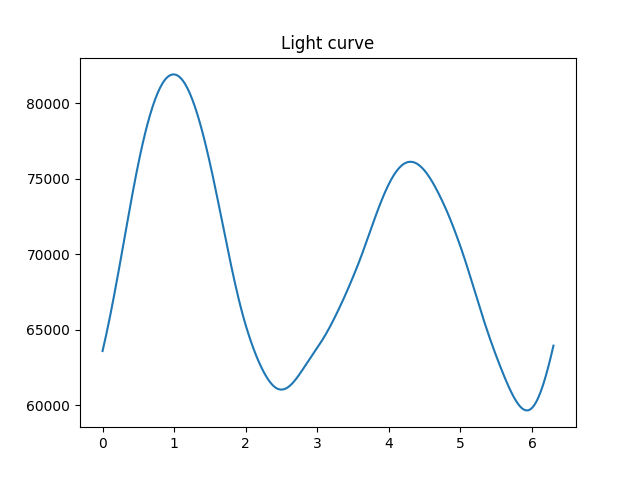
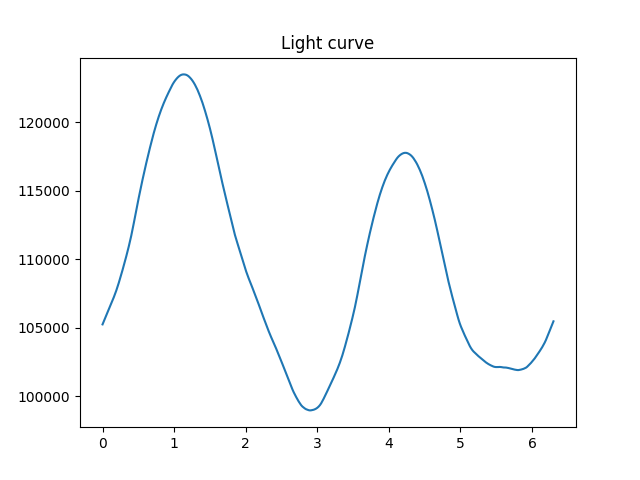
Some fixes

diff --git a/Millennium_Falcon_Space_Apps_team/SimulateRotation.cpp b/Millennium_Falcon_Space_Apps_team/SimulateRotation.cpp
@@ -2,37 +2,31 @@
 #include "MathCore.h"
 #include "SimulateRotation.h"
 
-inline void RotatePointOX(Point3D& point, double deg, const Point3D center)
+inline void RotatePointOX(Point3D& point, double deg)
 {
-	point = point - center;
 	double y = point.y * cos(deg) - point.z * sin(deg);
 	double z = point.y * sin(deg) + point.z * cos(deg);
 	point.y = y;
 	point.z = z;
-	point = point + center;
 }
 
-inline void RotatePointOY(Point3D& point, double deg, const Point3D center)
+inline void RotatePointOY(Point3D& point, double deg)
 {
-	point = point - center;
 	double x = point.x * cos(deg) + point.z * sin(deg);
 	double z = -point.x * sin(deg) + point.z * cos(deg);
 	point.x = x;
 	point.z = z;
-	point = point + center;
 }
 
-inline void RotatePointOZ(Point3D& point, double deg, const Point3D center)
+inline void RotatePointOZ(Point3D& point, double deg)
 {
-	point = point - center;
 	double x = point.x * cos(deg) - point.y * sin(deg);
 	double y = point.x * sin(deg) + point.y * cos(deg);
 	point.x = x;
 	point.y = y;
-	point = point + center;
 }
 
-void RotateMesh(Mesh& mesh, double deg, const Point3D& center, const Point3D& axisAng)
+void RotateMesh(Mesh& mesh, double deg, const Point3D& axisAng)
 {
 
 	for (auto& vert : mesh.getVertices())
@@ -42,18 +36,18 @@ void RotateMesh(Mesh& mesh, double deg, const Point3D& center, const Point3D& ax
 			angXY = 2 * PI - angXY;
 		if (std::isnan(angXY))
 			angXY = 0;
-		RotatePointOZ(vert, angXY, center);
+		RotatePointOZ(vert, angXY);
 		double angXZ = getAngle(Point2D{ 0, 1 }, { axisAng.x, axisAng.z });
 		if (cross_mult(Point2D{ axisAng.x, axisAng.z }, { 0, 1 }) < 0)
 			angXZ = 2 * PI - angXZ;
 		if (std::isnan(angXZ))
 			angXZ = 0;
-		RotatePointOY(vert, angXZ, center);
+		RotatePointOY(vert, angXZ);
 
-		RotatePointOZ(vert, deg, center);
+		RotatePointOZ(vert, deg);
 
-		RotatePointOY(vert, -angXZ, center);
-		RotatePointOZ(vert, -angXY, center);
+		RotatePointOY(vert, -angXZ);
+		RotatePointOZ(vert, -angXY);
 	}
 }
 
@@ -66,14 +60,13 @@ double MeshLight(Mesh& mesh, double k, const Point3D& lightNormal) {
 	return res_light;
 }
 
-std::map<double, double> SimulateRotation(Mesh i_mesh, double i_accuracy_deg, double k, const Point3D& lightNormal, 
-	const Point3D& center, const Point3D& axisAng)
+std::map<double, double> SimulateRotation(Mesh i_mesh, double i_accuracy_deg, double k, const Point3D& lightNormal, const Point3D& axisAng)
 {
 	std::map<double, double> map;
 	for (double deg = 0; deg < 2 * PI + i_accuracy_deg; deg += i_accuracy_deg)
 	{
 		map[deg] = MeshLight(i_mesh, k, lightNormal);
-		RotateMesh(i_mesh, i_accuracy_deg, center, axisAng);
+		RotateMesh(i_mesh, i_accuracy_deg, axisAng);
 	}
 	return map;
 }

diff --git a/Millennium_Falcon_Space_Apps_team/SimulateRotation.h b/Millennium_Falcon_Space_Apps_team/SimulateRotation.h
@@ -2,5 +2,5 @@
 #include <map>
 #include "MathCore.h"
 
-std::map<double, double> SimulateRotation(Mesh i_mesh, double i_accuracy_deg, double k, const Point3D& lightNormal,
-	const Point3D& center, const Point3D& axisAng);
+std::map<double, double> SimulateRotation(Mesh i_mesh, double i_accuracy_deg, double k, 
+	const Point3D& lightNormal, const Point3D& axisAng);

diff --git a/Millennium_Falcon_Space_Apps_team/main.cpp b/Millennium_Falcon_Space_Apps_team/main.cpp
@@ -6,7 +6,7 @@
 
 
 int main() {
-	auto map = SimulateRotation(Parse("potato.obj"), 2 * PI / 360, 1, { 0, 1, 0 }, { 0, 0, 0 }, { 0, 0, 1 });
+	auto map = SimulateRotation(Parse("potato.obj"), 2 * PI / 360, 1, { 0, 1, 0 }, { 0, 0, 1 });
 	std::vector<double> angs, lights;
 	for (auto& [key, val] : map) {
 		std::cout << key << ' ' << val << std::endl;

diff --git a/Millennium_Falcon_Space_Apps_team/MathCore.cpp b/Millennium_Falcon_Space_Apps_team/MathCore.cpp
@@ -115,7 +115,7 @@ double CaclLight(Point3D& a, Point3D& b, Point3D& c, double k, const Point3D& li
 		const auto P = (A + B + C) / 2;
 		auto S = sqrt(((P - A) * (P - C) * (P - B))) / 2;
 		auto cosA = scalar(triangleNormal, lightNormal);
-		return k * S * std::max(-cosA, 0.);
+		return k * S * (cosA < 0 ? 1 : 0);
 	}
 	return 0;
 }
